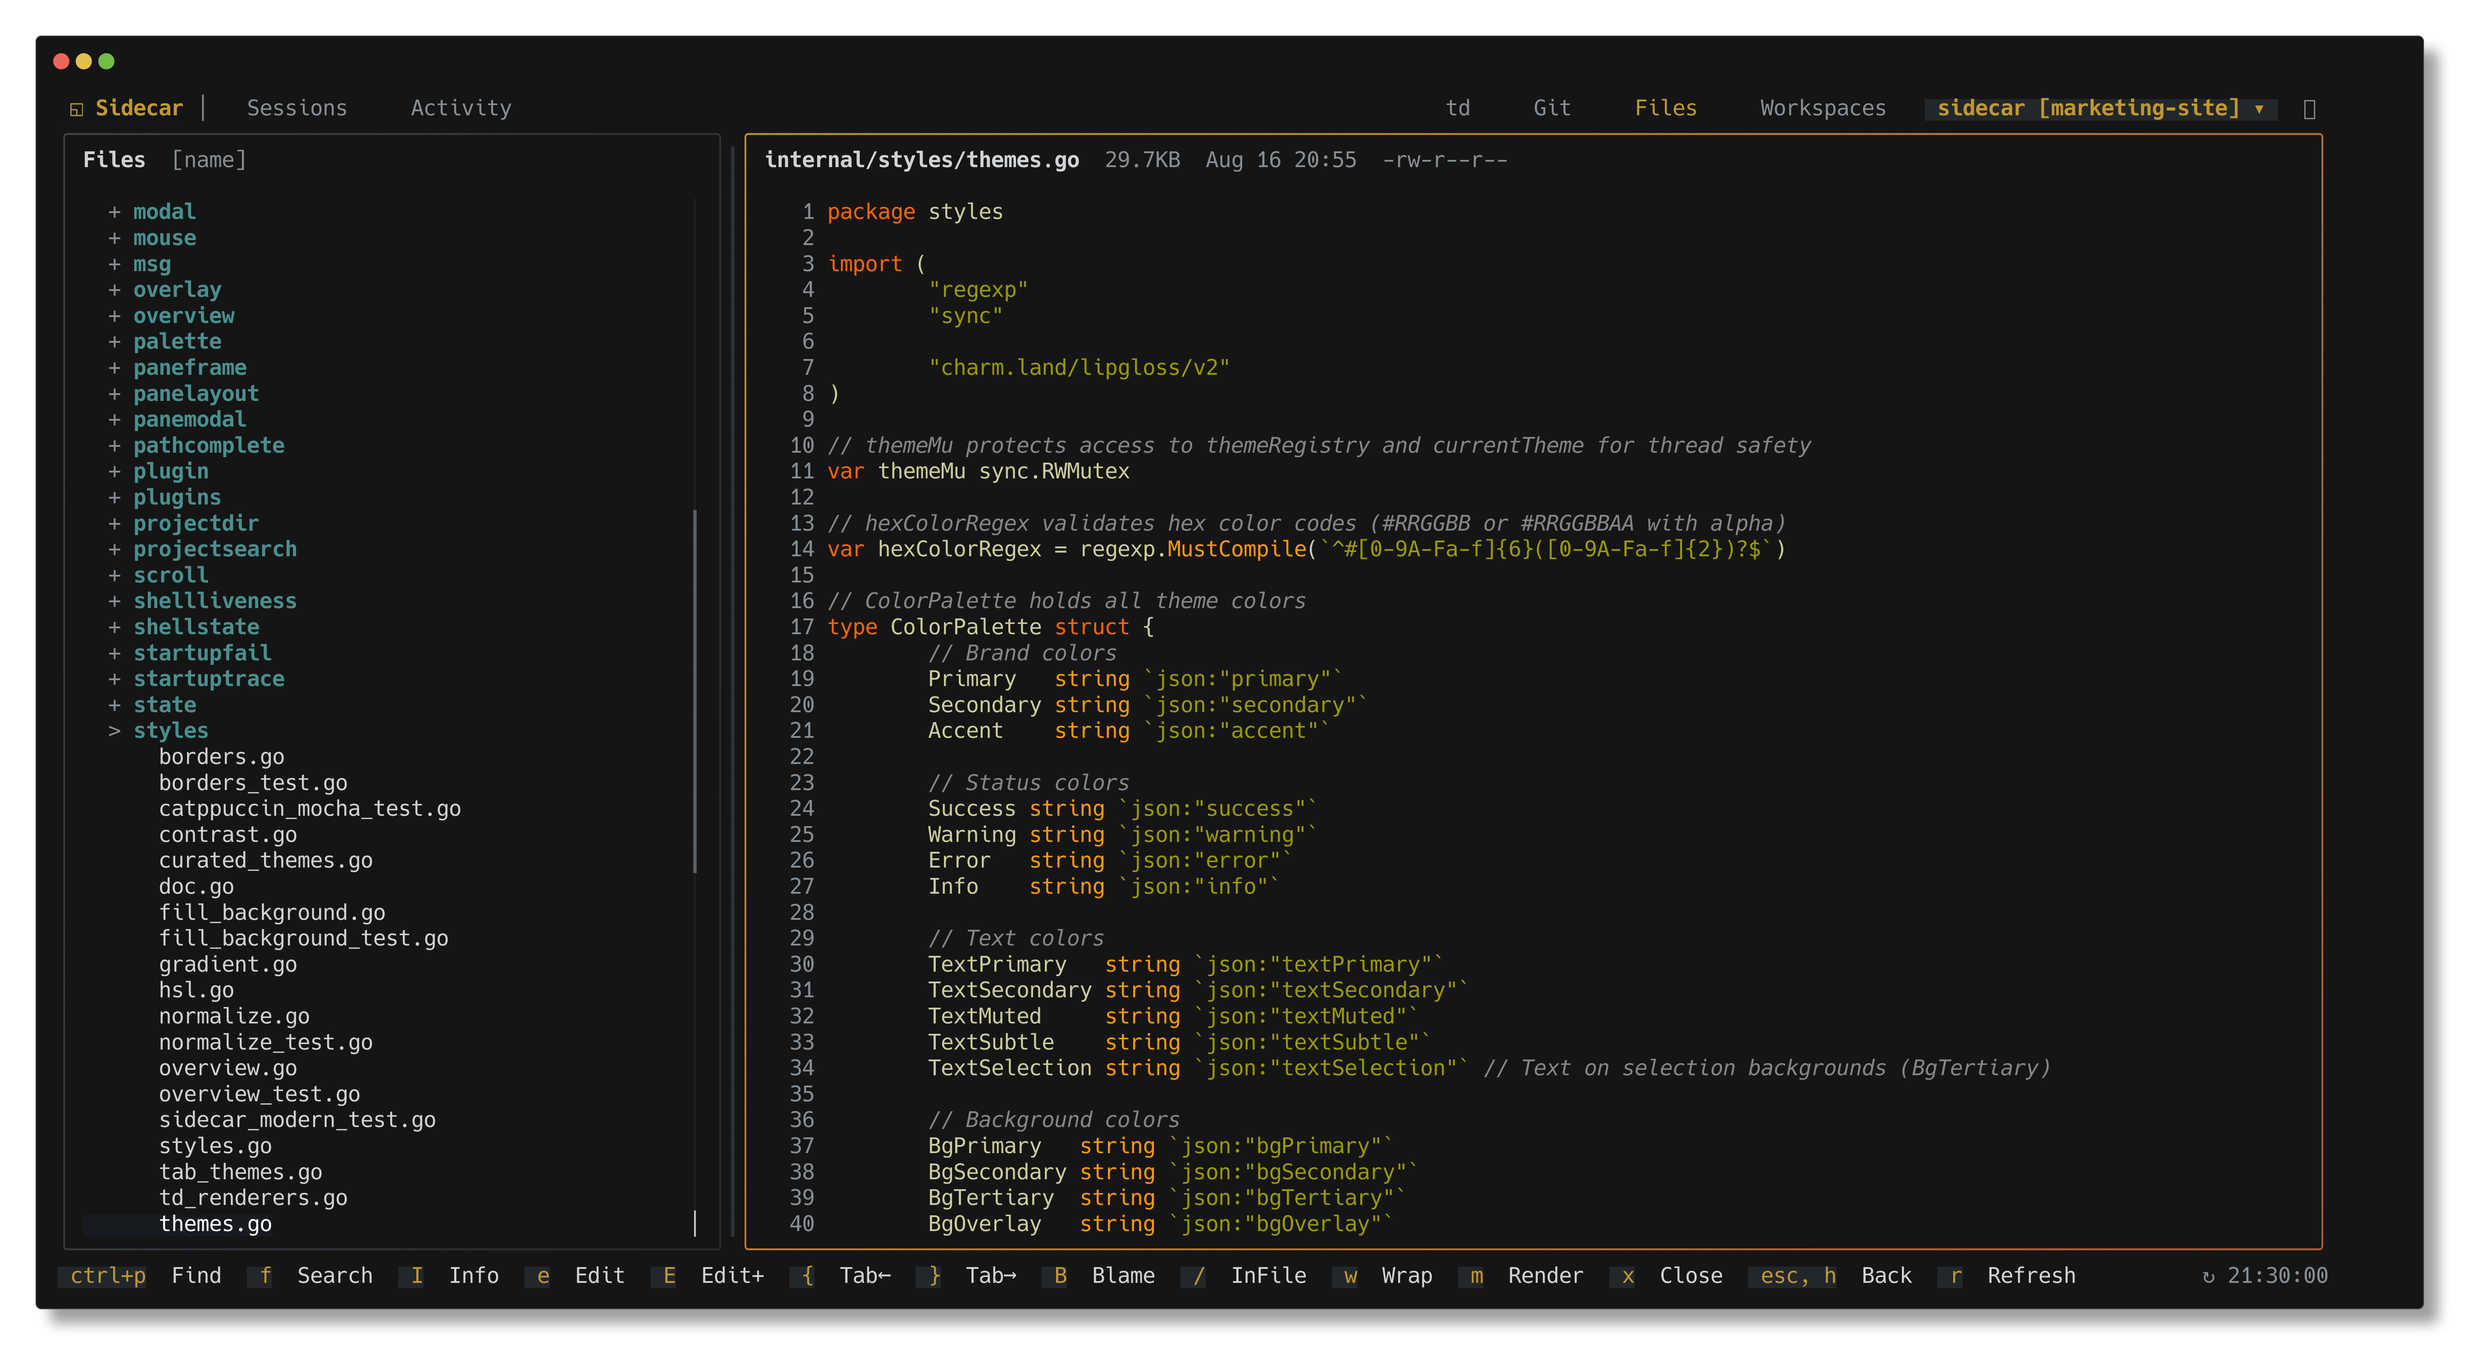
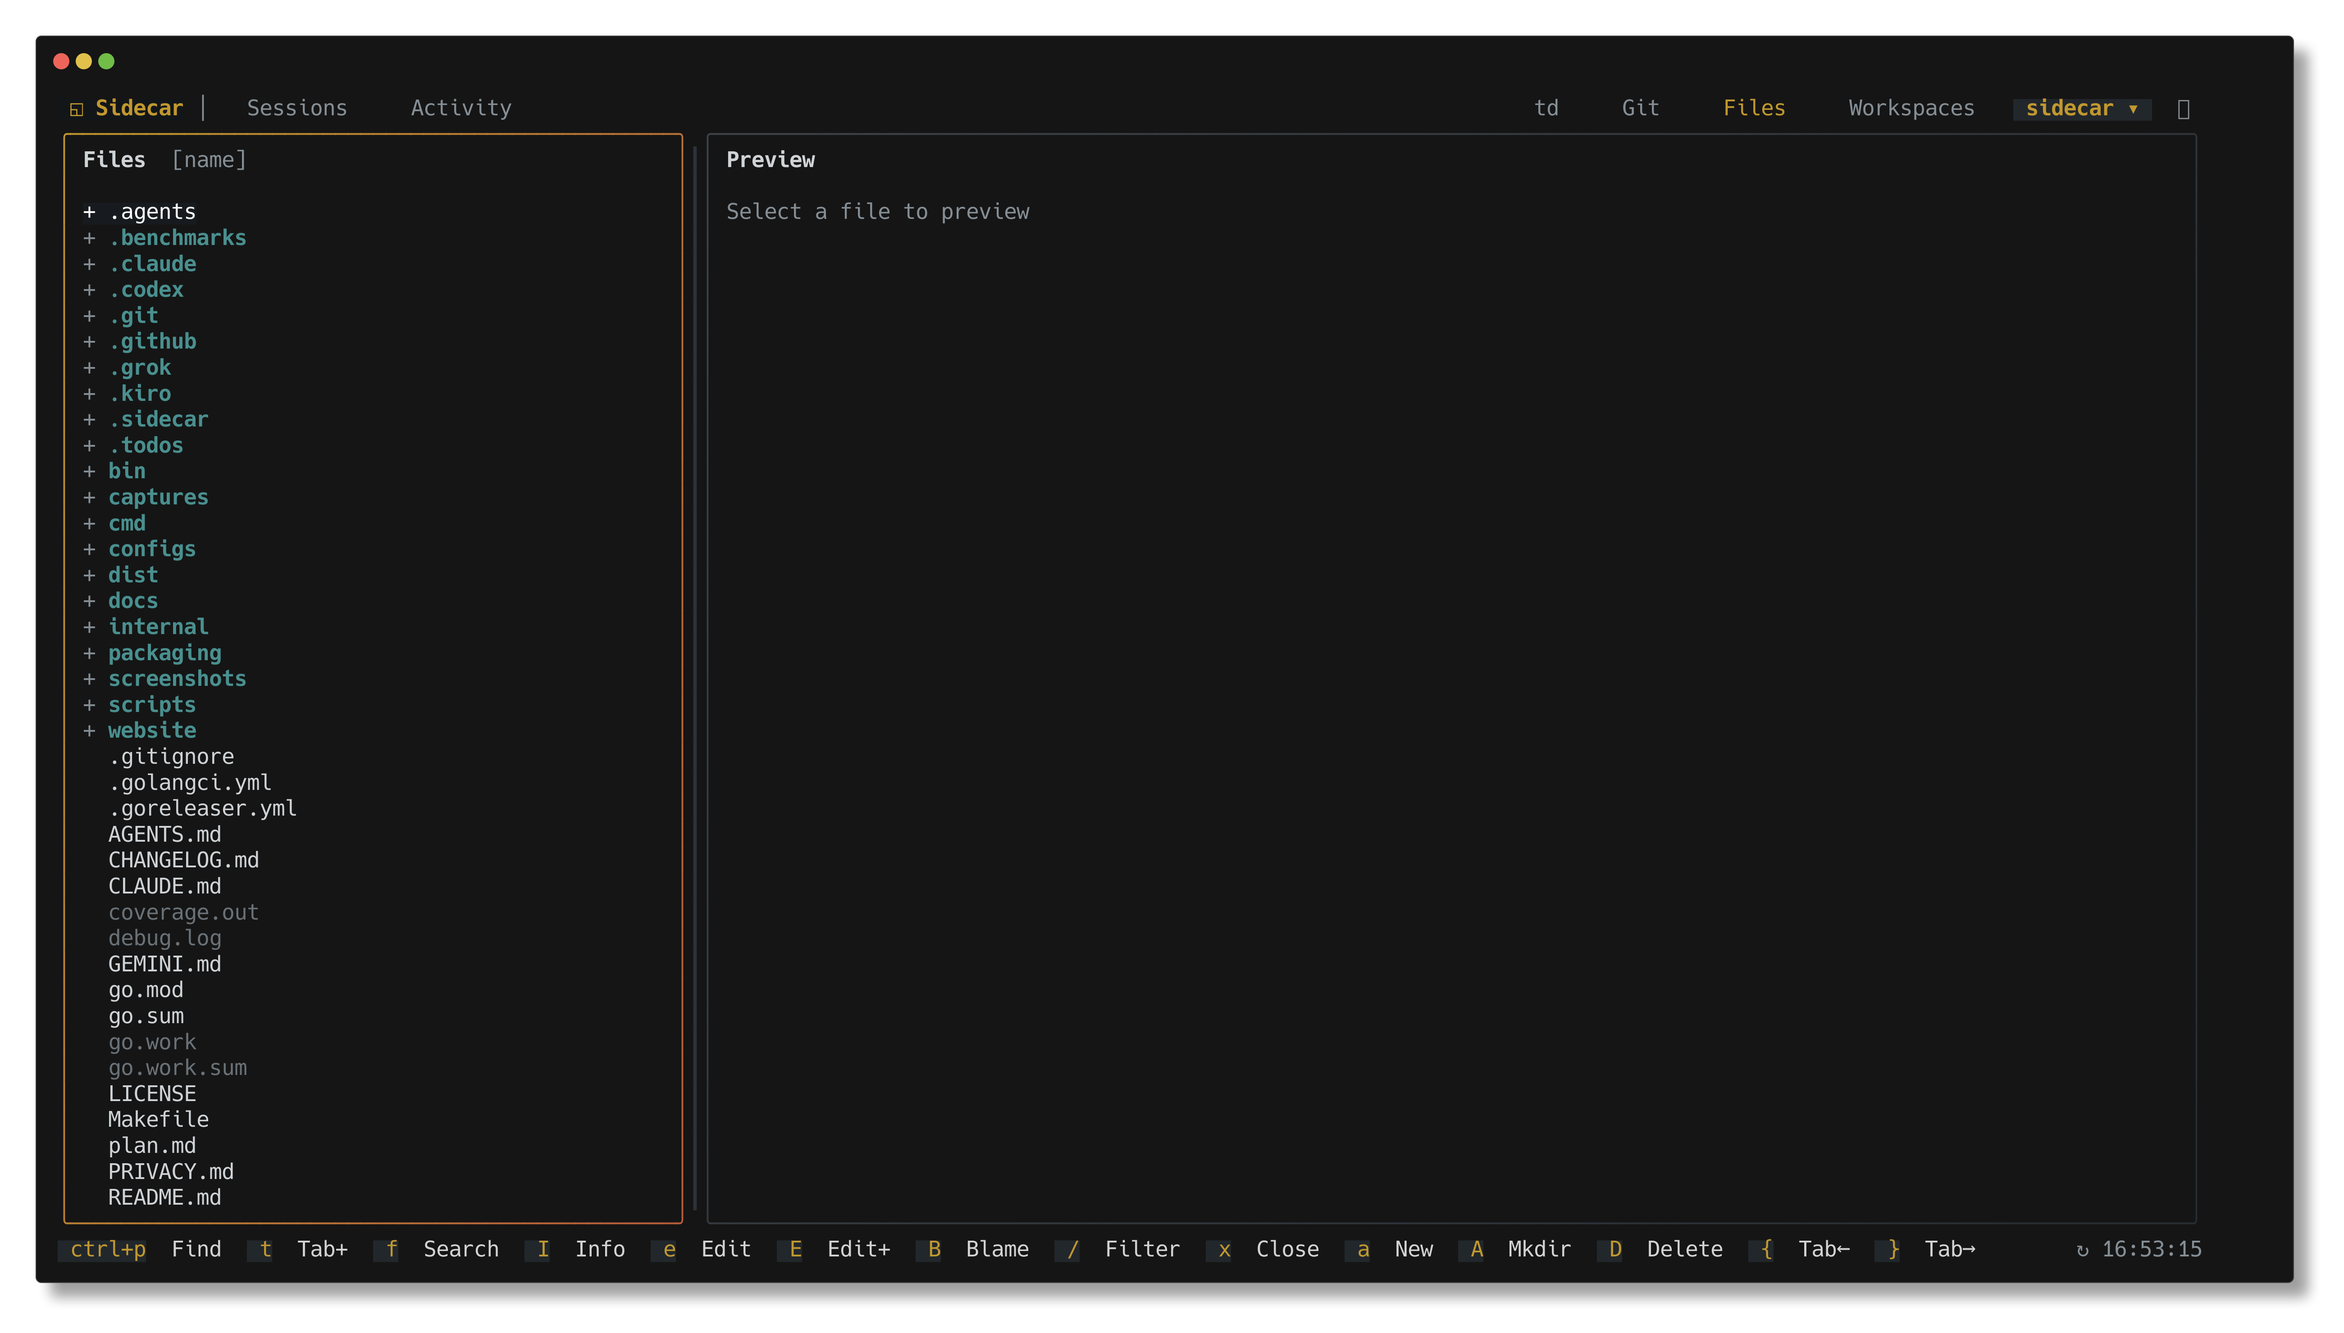
docs: update README and feature screenshots for v1.0

diff --git a/README.md b/README.md
@@ -6,11 +6,11 @@ You might never open your editor again.
 
 [Documentation](https://marcus.github.io/sidecar/) · [Getting Started](https://marcus.github.io/sidecar/docs/intro) · [Comprehensive List of Features](docs/features.md)
 
-![Git Status](docs/screenshots/sidecar-git.png)
+![Sidecar Workspace](docs/screenshots/sidecar-workspaces.png)
 
 ## Overview
 
-Sidecar puts your entire development workflow in one shell: plan tasks with [td](https://github.com/marcus/td), chat with AI agents, review diffs, stage commits, and manage workspaces—all without leaving Sidecar. (Optional: multi-agent session history via the Conversations plugin.)
+Sidecar puts your entire development workflow in one shell: run AI coding agents in embedded interactive terminals, open [td](https://github.com/marcus/td) task issues, files, git diffs, and Jira resources in split panes beside your terminal, monitor agent sessions across all projects, review diffs, stage commits, and manage workspaces—all without leaving Sidecar.
 
 ## Quick Install
 
@@ -33,7 +33,7 @@ curl -fsSL https://raw.githubusercontent.com/marcus/sidecar/main/scripts/setup.s
 ## Requirements
 
 - macOS, Linux, or WSL
-- Go 1.21+ (only if building from source)
+- Go 1.26+ (only if building from source)
 
 ## Quick Start
 
@@ -45,30 +45,16 @@ sidecar
 
 ## Suggested Use
 
-Split your terminal horizontally: run your coding agent (Claude Code, Cursor, etc.) on the left and sidecar on the right.
+Run your coding agent (Claude Code, Codex, Gemini, Cursor, OpenCode, Pi, etc.) directly inside Sidecar's embedded terminal in **Workspaces**. Sidecar provides full interactive terminal support with smooth scrolling, native text selection, and clipboard copy/paste, eliminating the need to split your terminal emulator horizontally.
 
-```
-┌─────────────────────────────┬─────────────────────┐
-│                             │                     │
-│   Claude Code / Cursor      │      Sidecar        │
-│                             │                     │
-│   $ claude                  │   [Git] [Files]     │
-│   > fix the auth bug...     │   [Tasks] [Workspaces]│
-│                             │                     │
-└─────────────────────────────┴─────────────────────┘
-```
+As the agent works, you or the agent can:
 
-**Tip:** You can run two sidecar instances side-by-side to create a dashboard view. For example, keep one on the [Tasks] plugin and the other on [Git] or [Workspaces] to monitor everything at once.
-
-As the agent works, you can:
-
+- Open task tracking issues (`td-xxxxxx`), files (`path:line`), diffs, or Jira resources in split panes right beside the terminal via `sidecar open`
 - Watch tasks move through the workflow in TD Monitor
-- See files change in real-time in the Git plugin
-- Browse and edit code yourself in the File Browser
-- Optionally browse multi-agent session history (Conversations plugin; opt-in feature flag)
-- Switch between built-in and community themes with live previews
-
-This setup gives you visibility into what the agent is doing without interrupting your workflow. The entire dev loop—planning, monitoring, reviewing, committing—happens in the terminal while agents write the code.
+- See files change in real-time and review syntax-highlighted diffs in the Git plugin
+- Browse project code in the File Browser
+- Monitor agent status across every project in the **Sessions** screen
+- Adjust any setting with live feedback in the in-app **Configuration** UI
 
 ## Usage
 
@@ -78,6 +64,15 @@ sidecar
 
 # Specify project root
 sidecar --project /path/to/project
+
+# Open in-app Configuration directly on Setup
+sidecar setup
+
+# Open a file, td issue, git diff, or provider resource in a split pane
+sidecar open internal/cli/cli.go:88
+sidecar open td-b922d8
+sidecar open --diff
+sidecar open --provider jira-work PROJ-123
 
 # Enable debug logging
 sidecar --debug
@@ -90,7 +85,35 @@ sidecar --version
 
 Sidecar checks for updates on startup. When a new version is available, a toast notification appears. Press `!` to open the diagnostics modal and see the update command.
 
-## Plugins
+## Core Features & Plugins
+
+### Workspaces & Split Panes
+
+Run agent shells and manage git worktrees in an integrated workspace. Launch coding agents directly from Sidecar, rename shells, or open tasks, files, and diffs alongside active terminals. [Full documentation →](https://marcus.github.io/sidecar/docs/workspaces-plugin)
+
+![Workspaces](docs/screenshots/sidecar-workspaces.png)
+
+**Features:**
+
+- Embedded terminal with full tmux integration, mouse scrolling, and seamless copy-paste
+- Open TD issues, project files, diffs, and Jira tickets beside the terminal with `sidecar open <target>`
+- Create, rename, and manage interactive shells (`ctrl+n`) and worktree workspaces (`n`/`D`)
+- Launch coding agents (Claude, Codex, Gemini, Cursor, OpenCode, Pi) with `a`
+- Integrated merge workflow: commit, push, create PR, and cleanup with `m`
+- Drag-and-drop and keyboard-resizable pane splits
+
+### Sessions Screen
+
+Press `8` or navigate to **Sessions** in the navbar to monitor and manage all active agent sessions, shells, and git worktrees across every configured project in one centralized screen.
+
+![Sessions](docs/screenshots/sidecar-sessions.png)
+
+**Features:**
+
+- Cross-project session overview categorized by status (Needs Attention, Working, Live, Idle)
+- Live preview pane showing real-time agent output, activity, and diffs
+- Fast filtering (`/`), sorting, and instant project/session switching (`Enter`)
+- Seamless transition between global session overview and project workspaces
 
 ### Git Status
 
@@ -106,46 +129,18 @@ View staged, modified, and untracked files with a split-pane interface. The side
 - Browse commit history and view commit diffs
 - Auto-refresh on file system changes
 
-### Conversations (opt-in)
-
-Browse session history from multiple AI coding agents with message content, token usage, and search. Supports Amp Code, Claude Code, Codex, Cursor CLI, Gemini CLI, GitHub Copilot CLI, Kiro, OpenCode, Pi Agent, and Warp. [Full documentation →](https://marcus.github.io/sidecar/docs/conversations-plugin)
-
-**Off by default.** Enable the `conversations_plugin` feature flag:
-
-```json
-{
-  "features": {
-    "flags": {
-      "conversations_plugin": true
-    }
-  }
-}
-```
-
-Or: `sidecar --enable-feature=conversations_plugin`. When disabled, Sidecar does not load history adapters or read agent session stores.
-
-![Conversations](docs/screenshots/sidecar-conversations.png)
-
-**Features:**
-
-- Unified view across all supported agents
-- View all sessions grouped by date
-- Search sessions with `/`
-- Expand messages to see full content
-- Track token usage per session
-
 ### TD Monitor
 
-Integration with [TD](https://github.com/marcus/td), a task management system designed for AI agents working across context windows. TD helps agents track work, log progress, and maintain context across sessions—essential for AI-assisted development where context windows reset between conversations. [Full documentation →](https://marcus.github.io/sidecar/docs/td)
+Integration with [TD](https://github.com/marcus/td), a task management system designed for AI agents working across context windows. TD helps agents track work, log progress, and maintain context across sessions. [Full documentation →](https://marcus.github.io/sidecar/docs/td)
 
 ![TD Monitor](docs/screenshots/sidecar-td.png)
 
 **Features:**
 
 - Current focused task display
-- Scrollable task list with status indicators
+- Scrollable task list with status indicators and priority badges
 - Activity log with session context
-- Quick review submission with `r`
+- Quick review submission with `r` and approval with `a`
 
 See the [TD repository](https://github.com/marcus/td) for installation and CLI usage.
 
@@ -160,27 +155,28 @@ Navigate project files with a tree view and syntax-highlighted preview. [Full do
 - Collapsible directory tree
 - Code preview with syntax highlighting
 - Auto-refresh on file changes
+- Quick file opening into workspace splits
 
-### Workspaces
+## In-App Configuration
 
-Manage workspaces for parallel development with integrated agent support. Create isolated branches as sibling directories, link tasks from TD, and launch coding agents directly from sidecar. [Full documentation →](https://marcus.github.io/sidecar/docs/workspaces-plugin)
+Press `,` (comma) or run `sidecar setup` to open the full in-app Configuration interface. Adjust project settings, appearance, terminal behavior, agent integrations, and view system diagnostic checks with live feedback.
 
-![Workspaces](docs/screenshots/sidecar-workspaces.png)
+![Configuration](docs/screenshots/sidecar-config.png)
 
-**Features:**
+**Configuration Pages:**
 
-- Create and delete workspaces with `n`/`D`
-- Link TD tasks to workspaces for context tracking
-- Launch coding agents (Claude, Codex, Gemini, Cursor, OpenCode, Pi) with `a`
-- Merge workflow: commit, push, create PR, and cleanup with `m`
-- Auto-adds sidecar state files to .gitignore
-- Preview diffs and task details in split-pane view
+- **Sidecar Setup**: System readiness checks (tmux version, truecolor support, project roots, `AGENTS.md` instructions) with one-key guided repairs
+- **Appearance**: Live theme selection, swatches, and custom color overrides
+- **Projects**: Add, remove, and manage configured projects and paths
+- **Workspaces & Terminal**: Customize default agents, shell creation, terminal scrollback, and tmux settings
+- **Panels & Integrations**: Configure external terminal resource providers (e.g., Jira issue link matchers)
+- **Diagnostics & About**: System info, update checks, and troubleshooting tools
 
 ## Project Switcher
 
 Press `@` to switch between configured projects without restarting sidecar.
 
-1. Add projects to `~/.config/sidecar/config.json`:
+1. Add projects to `~/.config/sidecar/config.json` or using the in-app Configuration UI:
 
 ```json
 {
@@ -203,7 +199,7 @@ All plugins reinitialize with the new project context. State (active plugin, cur
 
 Press `W` to switch between git worktrees within the current repository. When you switch away from a project and return later, sidecar remembers which worktree you were working in and restores it automatically.
 
-Opening a worktree from the cross-project Overview keeps Sidecar scoped to the project root
+Opening a worktree from the cross-project Sessions screen keeps Sidecar scoped to the project root
 by default, while selecting that worktree in Workspaces and its preview. To instead enter the
 selected worktree's scope, set:
 
@@ -219,9 +215,9 @@ selected worktree's scope, set:
 
 ## Themes
 
-Press `#` to open the theme switcher. Choose from built-in themes (default, dracula) or press `Tab` to browse 453 community color schemes derived from iTerm2-Color-Schemes.
+Press `#` to open the theme switcher or navigate to **Appearance** in Configuration. Choose from 21 curated built-in themes (including Sidecar Modern, Dracula, Catppuccin Mocha, Tokyo Night Storm, Gruvbox Dark, Nord, Kanagawa Wave, Rose Pine, Everforest Dark, Solarized Dark, Monokai Pro, and more) with instant live preview.
 
-The community browser supports search filtering, live preview as you navigate, and color swatches for each scheme. Press `Enter` to save a scheme as your active theme.
+Custom color overrides and theme preferences can be set in `~/.config/sidecar/config.json` or directly in the in-app Configuration UI.
 
 See [Theme Creation Skill](.claude/skills/create-theme/SKILL.md) for custom theme creation and color palette reference.
 
@@ -233,16 +229,32 @@ See [Theme Creation Skill](.claude/skills/create-theme/SKILL.md) for custom them
 | `@`                 | Open project switcher            |
 | `W`                 | Open worktree switcher           |
 | `#`                 | Open theme switcher              |
-| `i`                 | Open issue                       |
+| `,`                 | Open in-app Configuration        |
+| `8`                 | Open Sessions screen (global)    |
+| `9`                 | Open Activity overview (global)  |
+| `1-7`               | Focus project plugin by number   |
+| `[` / `]`           | Cycle header tabs                |
 | `tab` / `shift+tab` | Navigate plugins                 |
-| `1-9`               | Focus plugin by number           |
 | `j/k`, `↓/↑`        | Navigate items                   |
 | `ctrl+d/u`          | Page down/up in scrollable views |
 | `g/G`               | Jump to top/bottom               |
 | `enter`             | Select                           |
-| `esc`               | Back/close                       |
+| `esc`               | Back / close modal or pane       |
 | `r`                 | Refresh                          |
-| `?`                 | Toggle help                      |
+| `?`                 | Toggle help / command palette    |
+
+### Workspace Shortcuts
+
+| Key      | Action                              |
+| -------- | ----------------------------------- |
+| `ctrl+n` | Create new shell                    |
+| `n`      | Create new worktree workspace       |
+| `D`      | Delete workspace                    |
+| `a`      | Launch/attach agent                 |
+| `R`      | Rename shell                        |
+| `m`      | Start merge workflow                |
+| `p`      | Push branch                         |
+| `\`      | Toggle sidebar                      |
 
 ### Git Status Shortcuts
 
@@ -255,35 +267,17 @@ See [Theme Creation Skill](.claude/skills/create-theme/SKILL.md) for custom them
 | `h/l` | Switch sidebar/diff focus |
 | `c`   | Commit staged changes     |
 
-### Workspace Shortcuts
-
-| Key | Action                  |
-| --- | ----------------------- |
-| `n` | Create new workspace     |
-| `D` | Delete workspace         |
-| `a` | Launch/attach agent     |
-| `t` | Link/unlink TD task     |
-| `m` | Start merge workflow    |
-| `p` | Push branch             |
-| `o` | Open in finder/terminal |
-
 ## Configuration
 
-Config file: `~/.config/sidecar/config.json`
+Config file: `~/.config/sidecar/config.json` (or configure interactively via `,` / `sidecar setup`)
 
 ```json
 {
   "plugins": {
     "git-status": { "enabled": true, "refreshInterval": "1s" },
     "td-monitor": { "enabled": true, "refreshInterval": "2s" },
-    "conversations": { "enabled": true },
     "file-browser": { "enabled": true },
-    "workspaces": { "enabled": true }
-  },
-  "features": {
-    "flags": {
-      "conversations_plugin": false
-    }
+    "workspace": { "enabled": true }
   },
   "ui": {
     "showClock": true,
@@ -345,3 +339,4 @@ Sidecar runs locally and makes no telemetry, analytics, or tracking requests. Th
 ## License
 
 MIT
+
